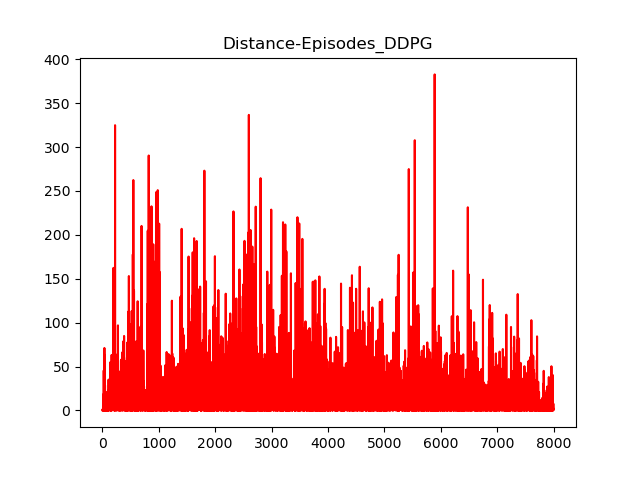
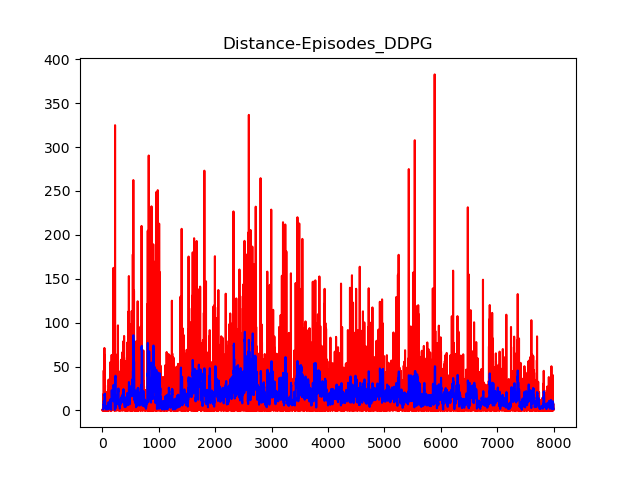
Add files via upload

Changed region(s): [[0.1562, 0.6875, 0.875, 0.875]]

diff --git a/DDPG-CARLA-master/DDPG/Diagrams_DDPG.py b/DDPG-CARLA-master/DDPG/Diagrams_DDPG.py
@@ -1,5 +1,7 @@
 import matplotlib.pyplot as plt
 import numpy as np
+import pandas as pd
+import statistics
 
 
 
@@ -17,9 +19,29 @@ with open("C:/Users\galag\OneDrive\Diploma\DDPG-CARLA-master\DDPG\episodes_info\
 with open("C:/Users\galag\OneDrive\Diploma\DDPG-CARLA-master\DDPG\episodes_info\episodes_reward.txt") as f:
     episodes_reward_list = [float(x) for x in f.read().split()]
 
+# rolling mean for rewards and mean
+pd_reward = pd.DataFrame(episodes_reward_list)
+rolling_mean_reward = pd_reward.rolling(10).mean()
+pd_dist = pd.DataFrame(episodes_dist_list)
+rolling_mean_dist = pd_dist.rolling(10).mean()
 
+# Calculate standard deviation and print for rewards and dist
+std_reward_DDPG = statistics.stdev(episodes_reward_list)
+std_dist_DDPG = statistics.stdev(episodes_dist_list)
+print("Standard deviation of DDPG reward: " + str(std_reward_DDPG))
+print("Standard deviation of DDPG dist: " + str(std_dist_DDPG))
 
+# Calculate 25% and 50% percentiles for rewards and dist
+per50_rewards_DDPG = np.percentile(episodes_reward_list,50)
+per25_rewards_DDPG = np.percentile(episodes_reward_list,25)
+per50_dist_DDPG = np.percentile(episodes_dist_list,50)
+per25_dist_DDPG = np.percentile(episodes_dist_list,25)
+print("50th percentile of DDPG rewards: ", per50_rewards_DDPG)
+print("25th percentile of DDPG rewards: ", per25_rewards_DDPG)
+print("50th percentile of DDPG dist: ", per50_dist_DDPG)
+print("25th percentile of DDPG dist: ", per25_dist_DDPG)
 
+# make the averages values
 for i in range(0,len(episodes_list)):
     if (i>1) and (i % N == 0):
         average_episodes_list.append(i)
@@ -37,9 +59,11 @@ y3 = np.array(max_reward_list)
 y4 = np.array(average_dist_list)
 y5 = np.array(average_reward_list)
 y6 = np.array(episodes_dist_list)
-
+y7 = np.array(rolling_mean_reward)
+y8 = np.array(rolling_mean_dist)
 
 plt.plot(x1, y1, color="red")
+plt.plot(x1, y7, color="blue")
 plt.title("Reward-Episodes_DDPG")
 plt.savefig('Reward-Episodes_8000_DDPG.png')
 plt.close()
@@ -60,6 +84,7 @@ plt.title("Average Reward-Episodes_DDPG")
 plt.savefig('Average Reward-Episodes_8000_DDPG.png')
 plt.close()
 plt.plot(x1, y6, color="red")
+plt.plot(x1, y8, color="blue")
 plt.title("Distance-Episodes_DDPG")
 plt.savefig('Distance-Episodes_8000_DDPG.png')
 plt.close()
